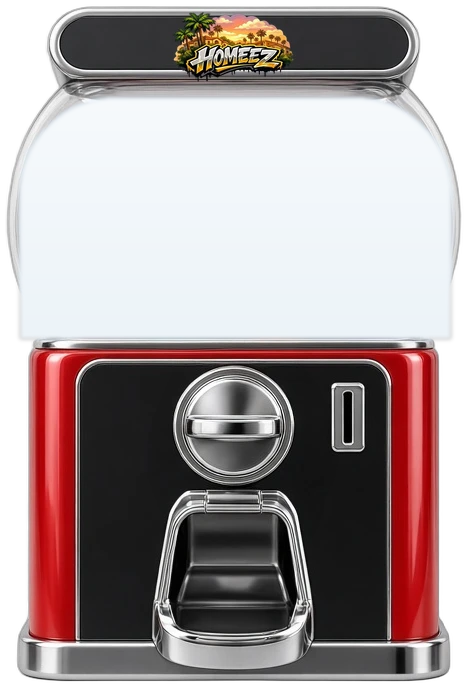
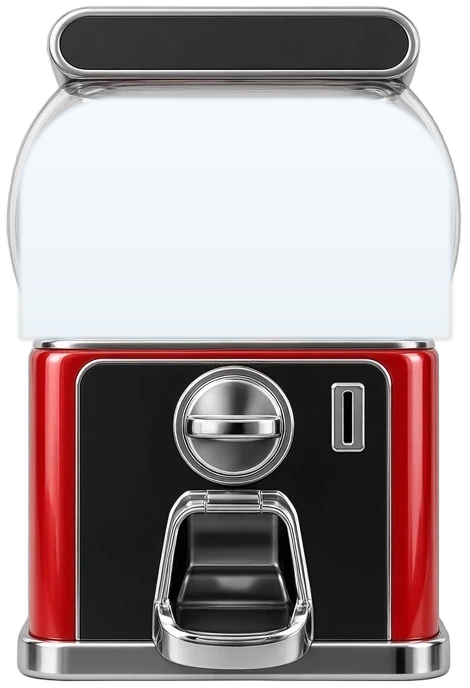
HOMEEZ: wordmark-only marquee on capsule machine (badge no longer overflows panel)

Changed region(s): [[0.3574, 0.0, 0.6255, 0.1221]]

diff --git a/homeez/index.html b/homeez/index.html
@@ -490,6 +490,10 @@
     .hzm{position:relative;width:min(100%,470px);aspect-ratio:470/688;filter:drop-shadow(0 28px 50px rgba(0,0,0,.5))}
     .hzm.shake{animation:hzShake .5s ease-in-out}
     .hzm-layer{position:absolute;inset:0;width:100%;height:100%;pointer-events:none}
+    /* marquee: HOMEEZ wordmark printed inside the dark top panel (panel interior = x60-408, y16-69 of the 470x688 base) */
+    .hzm-marquee{position:absolute;left:12.77%;top:2.33%;width:74.04%;height:7.7%;border-radius:999px;overflow:hidden;display:flex;align-items:center;justify-content:center;pointer-events:none;box-shadow:inset 0 2px 4px rgba(0,0,0,.55),inset 0 -1px 0 rgba(255,255,255,.06)}
+    .hzm-marquee img{display:block;max-width:86%;max-height:84%;width:auto;height:auto;object-fit:contain;filter:drop-shadow(0 1px 0 rgba(255,255,255,.14)) drop-shadow(0 -1px 1px rgba(0,0,0,.7)) drop-shadow(0 2px 2px rgba(0,0,0,.45))}
+    .hzm-marquee::after{content:"";position:absolute;inset:0;border-radius:inherit;background:linear-gradient(180deg,rgba(255,255,255,.13) 0%,rgba(255,255,255,.04) 38%,rgba(255,255,255,0) 52%),linear-gradient(105deg,rgba(255,255,255,0) 58%,rgba(255,255,255,.07) 66%,rgba(255,255,255,0) 74%)}
     .hzm-dome{position:absolute;left:4.5%;top:14.6%;width:91%;height:34.4%;overflow:hidden;border-radius:42% 42% 4% 4%/60% 60% 4% 4%}
     .hzc{position:absolute;width:30%;aspect-ratio:1;transform:rotate(var(--r));transition:transform .3s}
     .hzm-dome.jiggle .hzc{animation:hzJig .55s ease-in-out var(--d) 2}
@@ -618,7 +622,8 @@
         <div class="machine-side">
           <div class="hzm-stage">
             <div id="hzm" class="hzm">
-              <img class="hzm-layer" src="/homeez/assets/machine_base.webp?v=2" alt="HOMEEZ capsule machine" draggable="false">
+              <img class="hzm-layer" src="/homeez/assets/machine_base.webp?v=3" alt="HOMEEZ capsule machine" draggable="false">
+              <div class="hzm-marquee" aria-hidden="true"><img src="/homeez/assets/machine_wordmark.webp?v=1" alt="" draggable="false"></div>
               <div id="hzmDome" class="hzm-dome" aria-hidden="true"></div>
               <img class="hzm-layer hzm-glass" src="/homeez/assets/machine_glass.png?v=2" alt="" aria-hidden="true" draggable="false">
               <button id="hzmKnob" class="hzm-knob" type="button" aria-label="Twist the knob to get a HOMEEZ capsule">
